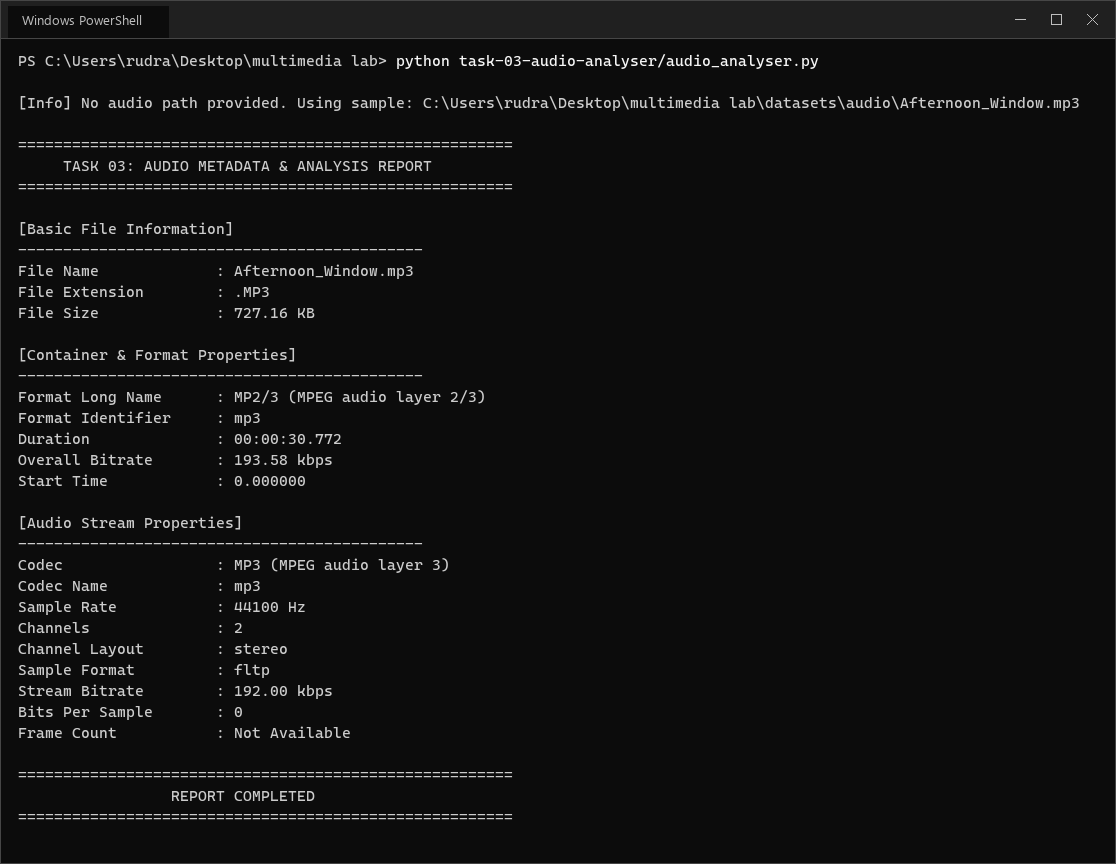
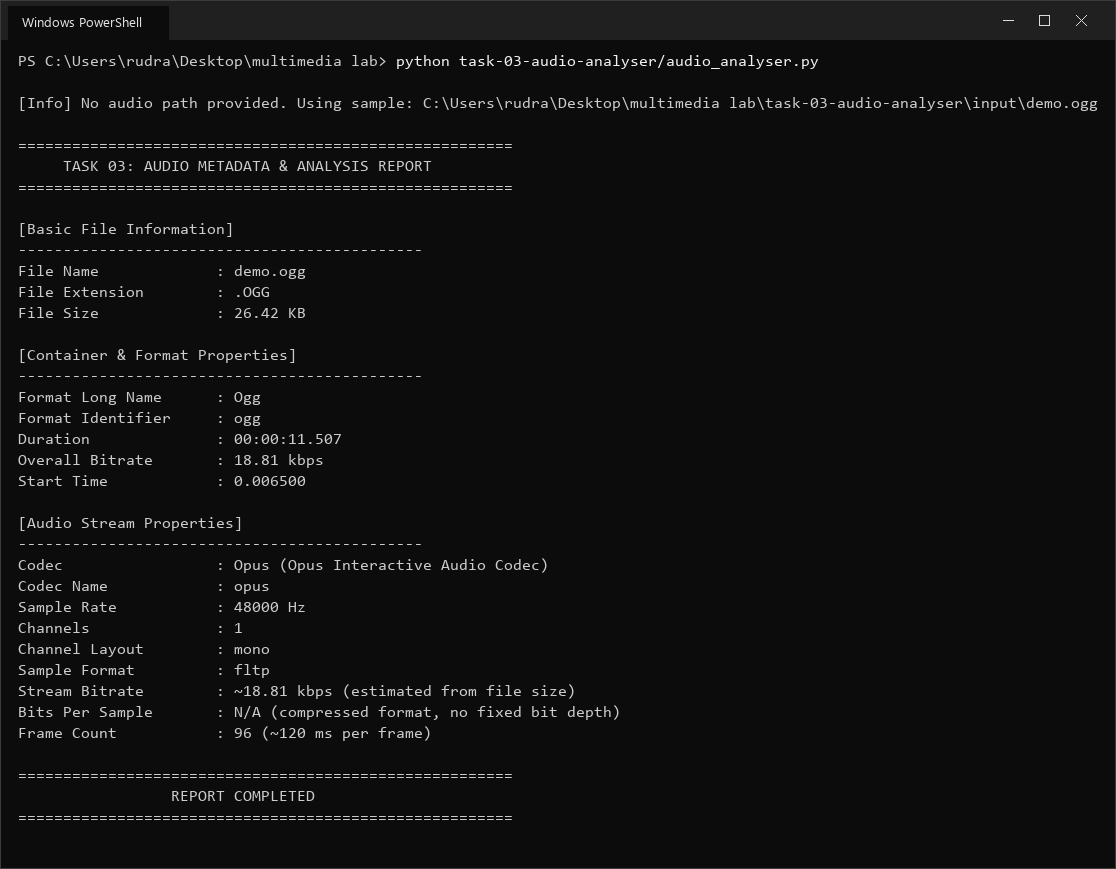
feat(task-03): analyse audio from input folder, fill in bitrate

diff --git a/task-03-audio-analyser/audio_analyser.py b/task-03-audio-analyser/audio_analyser.py
@@ -51,6 +51,7 @@ def get_audio_metadata(audio_path: str) -> dict:
         "-print_format", "json",
         "-show_format",
         "-show_streams",
+        "-count_packets",
         audio_path
     ]
 
@@ -167,9 +168,26 @@ def analyze_audio(audio_path: str) -> bool:
             print_tag("Channel Layout", audio_stream.get("channel_layout"))
             print_tag("Sample Format", audio_stream.get("sample_fmt"))
             s_br = audio_stream.get("bit_rate")
-            print_tag("Stream Bitrate", f"{int(s_br) / 1000:.2f} kbps" if s_br else "Not Available")
-            print_tag("Bits Per Sample", audio_stream.get("bits_per_sample"))
-            print_tag("Frame Count", audio_stream.get("nb_frames"))
+            if s_br:
+                print_tag("Stream Bitrate", f"{int(s_br) / 1000:.2f} kbps")
+            elif bit_rate:
+                print_tag("Stream Bitrate", f"~{int(bit_rate) / 1000:.2f} kbps (estimated from file size)")
+            else:
+                print_tag("Stream Bitrate", "Not Available")
+
+            bits = audio_stream.get("bits_per_sample") or audio_stream.get("bits_per_raw_sample")
+            if bits and str(bits) not in ("0", "N/A"):
+                print_tag("Bits Per Sample", f"{bits} bit")
+            else:
+                print_tag("Bits Per Sample", "N/A (compressed format, no fixed bit depth)")
+
+            frames = audio_stream.get("nb_frames") or audio_stream.get("nb_read_packets")
+            duration = format_data.get("duration")
+            if frames and duration:
+                frame_ms = float(duration) / int(frames) * 1000
+                print_tag("Frame Count", f"{frames} (~{frame_ms:.0f} ms per frame)")
+            else:
+                print_tag("Frame Count", frames)
         else:
             print("No audio stream detected in container.")
 
@@ -191,7 +209,14 @@ def analyze_audio(audio_path: str) -> bool:
 
 
 def find_default_sample() -> str:
-    """Locate sample audio from datasets/audio directory."""
+    """Use the first audio file in this task's input/ folder, else the dataset sample."""
+    input_dir = Path(__file__).resolve().parent / "input"
+    if input_dir.is_dir():
+        files = sorted(f for f in input_dir.iterdir()
+                       if f.suffix.lower() in {".mp3", ".wav", ".ogg", ".flac", ".m4a", ".aac", ".opus", ".wma"})
+        if files:
+            return str(files[0])
+
     candidates = [
         Path(__file__).resolve().parent.parent / "datasets" / "audio" / "Afternoon_Window.mp3",
         Path("datasets/audio/Afternoon_Window.mp3"),

diff --git a/README.md b/README.md
@@ -44,6 +44,7 @@ multimedia-lab/
 │
 ├── task-03-audio-analyser/             # 🎵 Audio Signal & Stream Properties Analyzer
 │   ├── audio_analyser.py
+│   ├── input/                          # put the audio file to analyse here
 │   └── outputs/
 │       └── task-03-audio-analysis.png
 │
@@ -219,22 +220,24 @@ python task-03-audio-analyser/audio_analyser.py
 python task-03-audio-analyser/audio_analyser.py --file path/to/audio.mp3
 ```
 
-Run against `datasets/audio/Afternoon_Window.mp3`:
+Run against `task-03-audio-analyser/input/demo.ogg` (the script picks the first audio file in `input/` when no file is given):
 
 ![Task 03 audio analysis output](task-03-audio-analyser/outputs/task-03-audio-analysis.png)
 
 | Property | Value |
 | --- | --- |
-| Container | MP2/3 (MPEG audio layer 2/3) |
-| File Size | 727.16 KB |
-| Duration | 00:00:30.772 |
-| Overall Bitrate | 193.58 kbps |
-| Codec | MP3 (MPEG audio layer 3) |
-| Sample Rate | 44100 Hz |
-| Channels | 2 (stereo) |
+| Container | Ogg (`ogg`) |
+| File Size | 26.42 KB |
+| Duration | 00:00:11.507 |
+| Overall Bitrate | 18.81 kbps |
+| Codec | Opus (Opus Interactive Audio Codec) |
+| Sample Rate | 48000 Hz |
+| Channels | 1 (mono) |
 | Sample Format | `fltp` |
-| Stream Bitrate | 192.00 kbps |
-| ID3 Tags | None embedded in this file |
+| Stream Bitrate | ~18.81 kbps (estimated from file size) |
+| Bits Per Sample | N/A (compressed format) |
+| Frame Count | 96 (~120 ms per frame) |
+| Tags | None embedded in this file |
 
 ---
 
